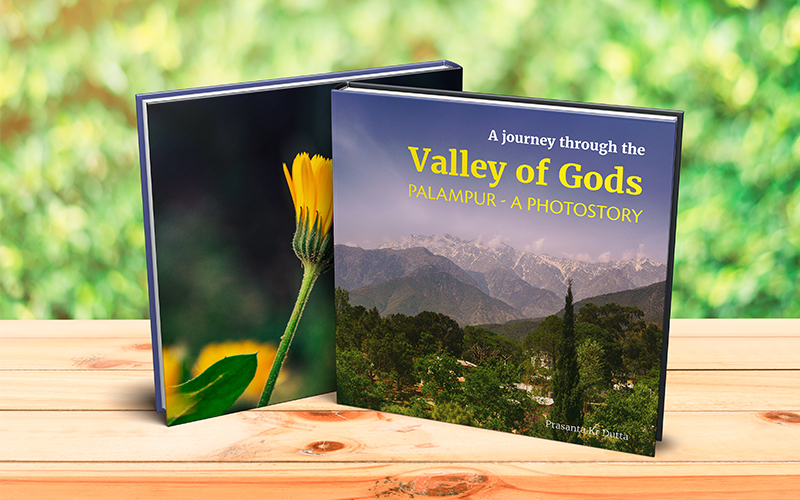
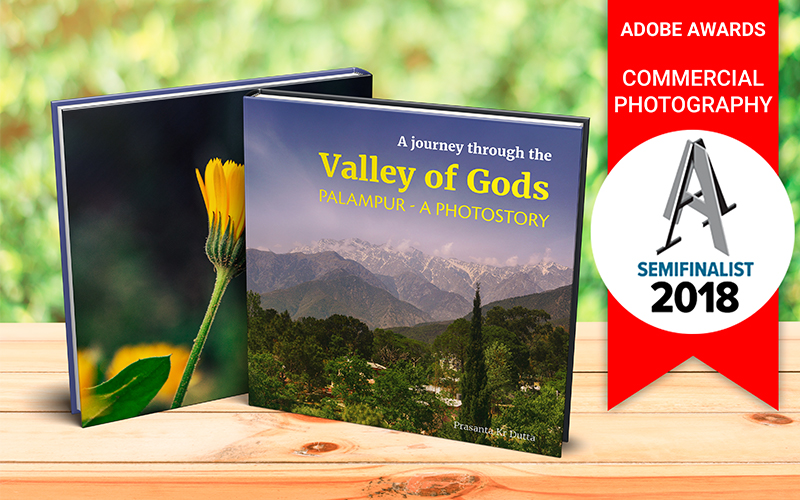
added ADA badge to andretta thumbnail

diff --git a/designbugle/pym.v1.min.js b/designbugle/pym.v1.min.js
@@ -1,0 +1,3 @@
+/*! pym.js - v1.3.2 - 2018-02-13 */
+
+!function(a){"function"==typeof define&&define.amd?define(a):"undefined"!=typeof module&&module.exports?module.exports=a():window.pym=a.call(this)}(function(){var a={},b=function(a){var b=document.createEvent("Event");b.initEvent("pym:"+a,!0,!0),document.dispatchEvent(b)},c=function(a){var b=new RegExp("[\\?&]"+a.replace(/[\[]/,"\\[").replace(/[\]]/,"\\]")+"=([^&#]*)"),c=b.exec(location.search);return null===c?"":decodeURIComponent(c[1].replace(/\+/g," "))},d=function(a,b){if(("*"===b.xdomain||a.origin.match(new RegExp(b.xdomain+"$")))&&"string"==typeof a.data)return!0},e=function(a){var b=/^(?:(?:https?|mailto|ftp):|[^&:\/?#]*(?:[\/?#]|$))/gi;if(a.match(b))return!0},f=function(a,b,c){return["pym",a,b,c].join("xPYMx")},g=function(a){var b=["pym",a,"(\\S+)","(.*)"];return new RegExp("^"+b.join("xPYMx")+"$")},h=Date.now||function(){return(new Date).getTime()},i=function(a,b,c){var d,e,f,g=null,i=0;c||(c={});var j=function(){i=!1===c.leading?0:h(),g=null,f=a.apply(d,e),g||(d=e=null)};return function(){var k=h();i||!1!==c.leading||(i=k);var l=b-(k-i);return d=this,e=arguments,l<=0||l>b?(g&&(clearTimeout(g),g=null),i=k,f=a.apply(d,e),g||(d=e=null)):g||!1===c.trailing||(g=setTimeout(j,l)),f}},j=function(){for(var b=a.autoInitInstances.length,c=b-1;c>=0;c--){var d=a.autoInitInstances[c];d.el.getElementsByTagName("iframe").length&&d.el.getElementsByTagName("iframe")[0].contentWindow||a.autoInitInstances.splice(c,1)}};return a.autoInitInstances=[],a.autoInit=function(c){var d=document.querySelectorAll("[data-pym-src]:not([data-pym-auto-initialized])"),e=d.length;j();for(var f=0;f<e;++f){var g=d[f];g.setAttribute("data-pym-auto-initialized",""),""===g.id&&(g.id="pym-"+f+"-"+Math.random().toString(36).substr(2,5));var h=g.getAttribute("data-pym-src"),i={xdomain:"string",title:"string",name:"string",id:"string",sandbox:"string",allowfullscreen:"boolean",parenturlparam:"string",parenturlvalue:"string",optionalparams:"boolean",trackscroll:"boolean",scrollwait:"number"},k={};for(var l in i)if(null!==g.getAttribute("data-pym-"+l))switch(i[l]){case"boolean":k[l]=!("false"===g.getAttribute("data-pym-"+l));break;case"string":k[l]=g.getAttribute("data-pym-"+l);break;case"number":var m=Number(g.getAttribute("data-pym-"+l));isNaN(m)||(k[l]=m);break;default:console.err("unrecognized attribute type")}var n=new a.Parent(g.id,h,k);a.autoInitInstances.push(n)}return c||b("pym-initialized"),a.autoInitInstances},a.Parent=function(a,b,c){this.id=a,this.url=b,this.el=document.getElementById(a),this.iframe=null,this.settings={xdomain:"*",optionalparams:!0,parenturlparam:"parentUrl",parenturlvalue:window.location.href,trackscroll:!1,scrollwait:100},this.messageRegex=g(this.id),this.messageHandlers={},c=c||{},this._constructIframe=function(){var a=this.el.offsetWidth.toString();this.iframe=document.createElement("iframe");var b="",c=this.url.indexOf("#");for(c>-1&&(b=this.url.substring(c,this.url.length),this.url=this.url.substring(0,c)),this.url.indexOf("?")<0?this.url+="?":this.url+="&",this.iframe.src=this.url+"initialWidth="+a+"&childId="+this.id,this.settings.optionalparams&&(this.iframe.src+="&parentTitle="+encodeURIComponent(document.title),this.iframe.src+="&"+this.settings.parenturlparam+"="+encodeURIComponent(this.settings.parenturlvalue)),this.iframe.src+=b,this.iframe.setAttribute("width","100%"),this.iframe.setAttribute("scrolling","no"),this.iframe.setAttribute("marginheight","0"),this.iframe.setAttribute("frameborder","0"),this.settings.title&&this.iframe.setAttribute("title",this.settings.title),void 0!==this.settings.allowfullscreen&&!1!==this.settings.allowfullscreen&&this.iframe.setAttribute("allowfullscreen",""),void 0!==this.settings.sandbox&&"string"==typeof this.settings.sandbox&&this.iframe.setAttribute("sandbox",this.settings.sandbox),this.settings.id&&(document.getElementById(this.settings.id)||this.iframe.setAttribute("id",this.settings.id)),this.settings.name&&this.iframe.setAttribute("name",this.settings.name);this.el.firstChild;)this.el.removeChild(this.el.firstChild);this.el.appendChild(this.iframe),window.addEventListener("resize",this._onResize),this.settings.trackscroll&&window.addEventListener("scroll",this._throttleOnScroll)},this._onResize=function(){this.sendWidth(),this.settings.trackscroll&&this.sendViewportAndIFramePosition()}.bind(this),this._onScroll=function(){this.sendViewportAndIFramePosition()}.bind(this),this._fire=function(a,b){if(a in this.messageHandlers)for(var c=0;c<this.messageHandlers[a].length;c++)this.messageHandlers[a][c].call(this,b)},this.remove=function(){window.removeEventListener("message",this._processMessage),window.removeEventListener("resize",this._onResize),this.el.removeChild(this.iframe),j()},this._processMessage=function(a){if(d(a,this.settings)&&"string"==typeof a.data){var b=a.data.match(this.messageRegex);if(!b||3!==b.length)return!1;var c=b[1],e=b[2];this._fire(c,e)}}.bind(this),this._onHeightMessage=function(a){var b=parseInt(a);this.iframe.setAttribute("height",b+"px")},this._onNavigateToMessage=function(a){e(a)&&(document.location.href=a)},this._onScrollToChildPosMessage=function(a){var b=document.getElementById(this.id).getBoundingClientRect().top+window.pageYOffset,c=b+parseInt(a);window.scrollTo(0,c)},this.onMessage=function(a,b){a in this.messageHandlers||(this.messageHandlers[a]=[]),this.messageHandlers[a].push(b)},this.sendMessage=function(a,b){this.el.getElementsByTagName("iframe").length&&(this.el.getElementsByTagName("iframe")[0].contentWindow?this.el.getElementsByTagName("iframe")[0].contentWindow.postMessage(f(this.id,a,b),"*"):this.remove())},this.sendWidth=function(){var a=this.el.offsetWidth.toString();this.sendMessage("width",a)},this.sendViewportAndIFramePosition=function(){var a=this.iframe.getBoundingClientRect(),b=window.innerWidth||document.documentElement.clientWidth,c=window.innerHeight||document.documentElement.clientHeight,d=b+" "+c;d+=" "+a.top+" "+a.left,d+=" "+a.bottom+" "+a.right,this.sendMessage("viewport-iframe-position",d)};for(var h in c)this.settings[h]=c[h];return this._throttleOnScroll=i(this._onScroll.bind(this),this.settings.scrollwait),this.onMessage("height",this._onHeightMessage),this.onMessage("navigateTo",this._onNavigateToMessage),this.onMessage("scrollToChildPos",this._onScrollToChildPosMessage),this.onMessage("parentPositionInfo",this.sendViewportAndIFramePosition),window.addEventListener("message",this._processMessage,!1),this._constructIframe(),this},a.Child=function(a){this.parentWidth=null,this.id=null,this.parentTitle=null,this.parentUrl=null,this.settings={renderCallback:null,xdomain:"*",polling:0,parenturlparam:"parentUrl"},this.timerId=null,this.messageRegex=null,this.messageHandlers={},a=a||{},this.onMessage=function(a,b){a in this.messageHandlers||(this.messageHandlers[a]=[]),this.messageHandlers[a].push(b)},this._fire=function(a,b){if(a in this.messageHandlers)for(var c=0;c<this.messageHandlers[a].length;c++)this.messageHandlers[a][c].call(this,b)},this._processMessage=function(a){if(d(a,this.settings)&&"string"==typeof a.data){var b=a.data.match(this.messageRegex);if(b&&3===b.length){var c=b[1],e=b[2];this._fire(c,e)}}}.bind(this),this._onWidthMessage=function(a){var b=parseInt(a);b!==this.parentWidth&&(this.parentWidth=b,this.settings.renderCallback&&this.settings.renderCallback(b),this.sendHeight())},this.sendMessage=function(a,b){window.parent.postMessage(f(this.id,a,b),"*")},this.sendHeight=function(){var a=document.getElementsByTagName("body")[0].offsetHeight.toString();return this.sendMessage("height",a),a}.bind(this),this.getParentPositionInfo=function(){this.sendMessage("parentPositionInfo")},this.scrollParentTo=function(a){this.sendMessage("navigateTo","#"+a)},this.navigateParentTo=function(a){this.sendMessage("navigateTo",a)},this.scrollParentToChildEl=function(a){var b=document.getElementById(a).getBoundingClientRect().top+window.pageYOffset;this.scrollParentToChildPos(b)},this.scrollParentToChildPos=function(a){this.sendMessage("scrollToChildPos",a.toString())};this.remove=function(){window.removeEventListener("message",this._processMessage),this.timerId&&clearInterval(this.timerId)};for(var e in a)this.settings[e]=a[e];this.id=c("childId")||a.id,this.messageRegex=new RegExp("^pymxPYMx"+this.id+"xPYMx(\\S+)xPYMx(.*)$");var g=parseInt(c("initialWidth"));return this.parentUrl=c(this.settings.parenturlparam),this.parentTitle=c("parentTitle"),this.onMessage("width",this._onWidthMessage),window.addEventListener("message",this._processMessage,!1),this.settings.renderCallback&&this.settings.renderCallback(g),this.sendHeight(),this.settings.polling&&(this.timerId=window.setInterval(this.sendHeight,this.settings.polling)),function(a){var c,d=document.getElementsByTagName("html")[0],e=d.className;try{c=window.self!==window.top?"embedded":"not-embedded"}catch(a){c="embedded"}e.indexOf(c)<0&&(d.className=e?e+" "+c:c,a&&a(c),b("marked-embedded"))}(a.onMarkedEmbeddedStatus),this},"undefined"!=typeof document&&a.autoInit(!0),a});

diff --git a/designbugle/index.html b/designbugle/index.html
@@ -147,6 +147,8 @@
     <script type="text/javascript" src="../js/mdb.min.js"></script>
     <!-- WOW scroll animator JavaScript -->
     <script src="../js/wow.min.js"></script>
+    <!-- Pym Js for iframe sizing JavaScript -->
+    <!-- <script src="pym.v1.min.js"></script> -->
 
     <!-- Template DOM script -->    
     <!-- <script type="text/javascript" src="jquery.xdomainajax.js"></script> -->
